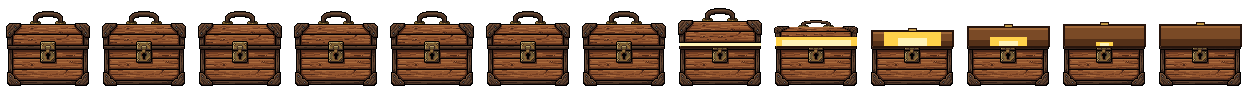
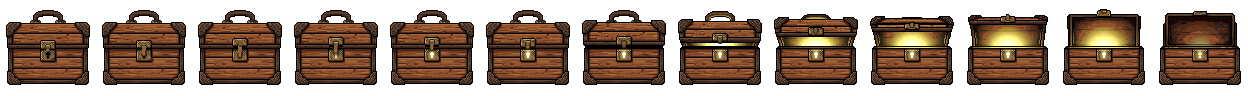
Cabin Case: real PixelLab opening animation for the wooden case

diff --git a/index.html b/index.html
@@ -890,7 +890,7 @@ SKINS.forEach(s=>{if(s.rar!=='common')s.from='Mafia Case';});
 const OWNED=new Set(SKINS.filter(s=>s.rar==='common').map(s=>s.id).concat('r_classic')); // what this player has unlocked: the common outfits to start, the rest come from the Mafia case
 const ROLE_SPR={mafia:'mafia',doctor:'doctor',jester:'jester',detective:'detective'};
 const IMG={};
-const BUILD='11121735'; // changes every push, so phones never show an old picture from their cache
+const BUILD='11121741'; // changes every push, so phones never show an old picture from their cache
 document.getElementById('buildTag').textContent='v'+BUILD; // which version this is, so an old cached copy is easy to spot
 /* ================= CABIN ROOMS (12 Nov 2026): what the Cabin Case holds =================
    Each room is ONE picture of the whole room in the game's 195x242 grid (assets/rooms/<id>.png, shrunk from his

diff --git a/tools/cabin_case_sheet.py b/tools/cabin_case_sheet.py
@@ -1,0 +1,14 @@
+"""The Cabin Case opening: PixelLab object 46ba23fc (the wooden state of the Mafia case), animation 'open-front'
+(v3, 12 frames + the still = 13). Joins the 13 frames into assets/case/cabin-open.png, 96 px each, like open.png.
+Usage: python tools/cabin_case_sheet.py <folder with 0.png .. 12.png>"""
+import sys
+import numpy as np
+from PIL import Image
+src = sys.argv[1]
+fr = [Image.open(f'{src}/{i}.png').convert('RGBA') for i in range(13)]
+sheet = Image.new('RGBA', (96 * 13, 96))
+for i, f in enumerate(fr): sheet.paste(f, (i * 96, 0))
+sheet.save('assets/case/cabin-open.png', optimize=True)
+for i in (0, 7, 12):
+    a = np.asarray(fr[i])[..., 3] > 0; ys = np.where(a.any(1))[0]; xs = np.where(a.any(0))[0]
+    print(i, 'box', xs[0], ys[0], xs[-1], ys[-1])
